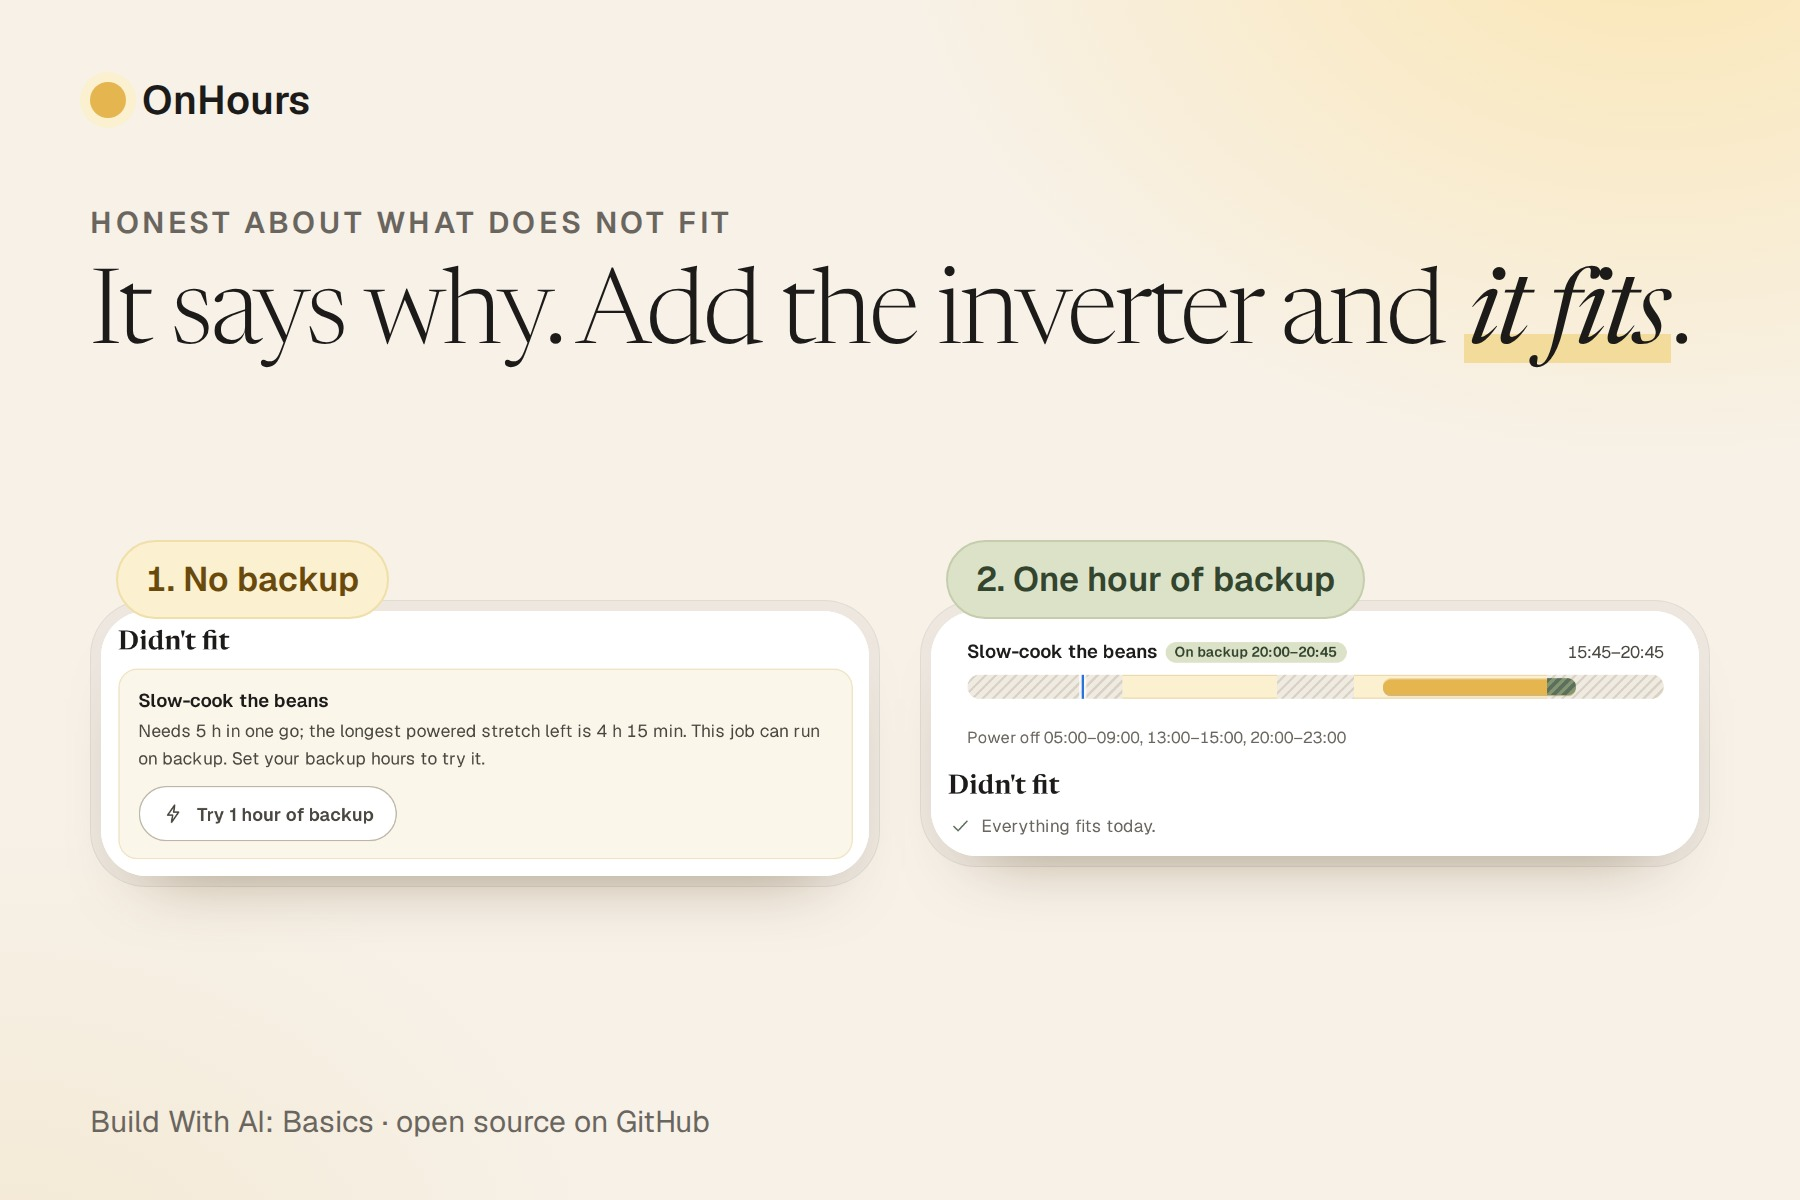
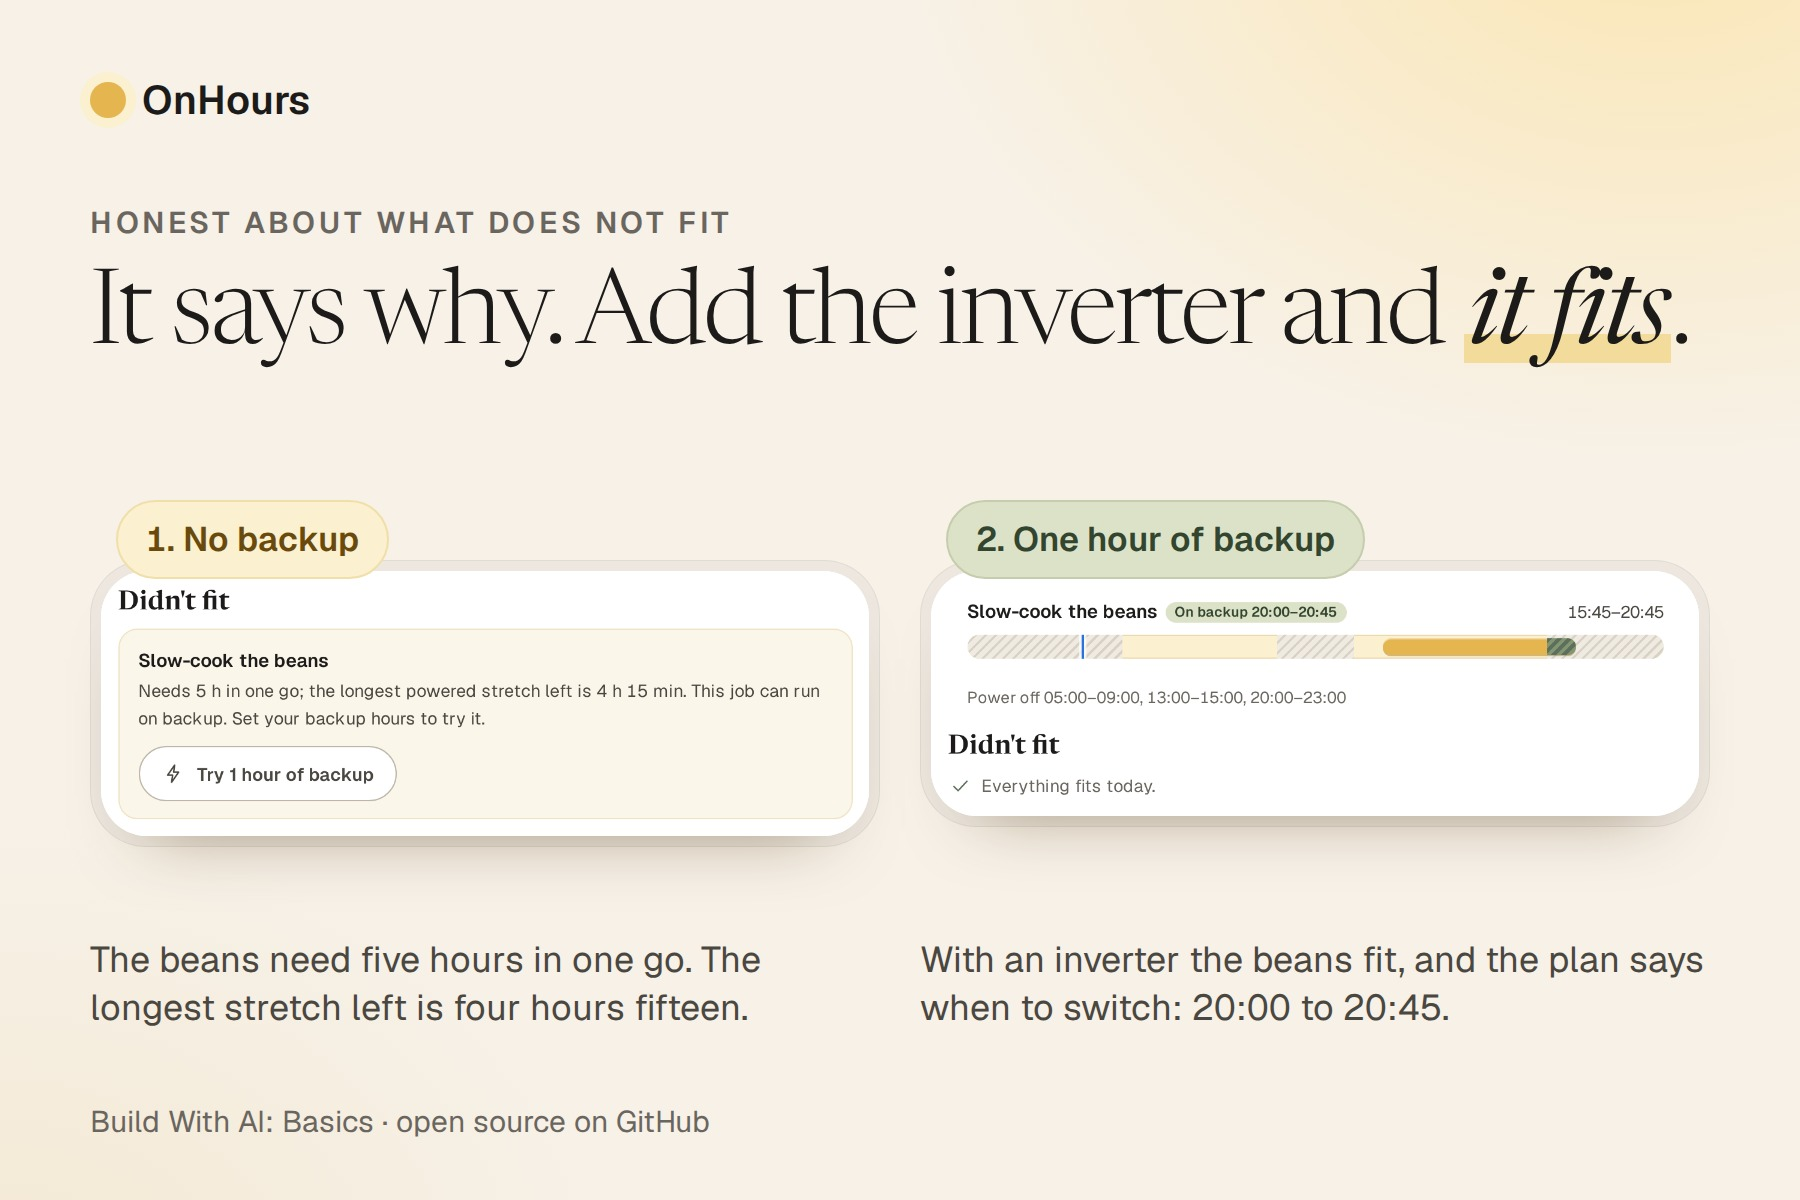
Shorten the film's lead-in, put captions beside the phone, enlarge the laptop view and retake the calendar line

Changed region(s): [[0.0311, 0.4008, 0.9644, 0.8633], [0.4978, 0.7708, 0.9333, 0.8633]]

diff --git a/tools/video/scenes/chat.html b/tools/video/scenes/chat.html
@@ -3,7 +3,7 @@
 <link rel="stylesheet" href="/base.css">
 <style>
   html, body { width: 390px; height: 844px; overflow: hidden; background: #F4EEE3; }
-  #chat { position: absolute; inset: 0; transform-origin: 38% 30%; animation: lens 3.2s var(--ease) 6.4s both; }
+  #chat { position: absolute; inset: 0; transform-origin: 38% 30%; animation: lens 3.2s var(--ease) 5.6s both; }
   header { position: absolute; top: 0; left: 0; right: 0; height: 74px; padding: 14px 16px 0; display: flex; align-items: center; gap: 12px; background: #fff; border-bottom: 1px solid var(--hair); z-index: 3; }
   .back { width: 22px; height: 22px; fill: none; stroke: var(--stone); stroke-width: 1.6; stroke-linecap: round; stroke-linejoin: round; }
   .av { width: 40px; height: 40px; border-radius: 50%; background: var(--band); display: grid; place-items: center; font-weight: 600; font-size: 14px; color: #6A4A0C; }
@@ -15,8 +15,8 @@
   .msg.photo { padding: 6px 6px 7px; width: 78%; }
   .msg.photo img { display: block; width: 100%; border-radius: 14px 14px 14px 14px; }
   .msg.photo .fw { display: block; padding: 2px 6px 6px; font-size: 12px; color: var(--ash); font-style: italic; }
-  .a { animation-delay: .5s; } .b { animation-delay: 1.5s; } .c { animation-delay: 3.7s; } .d { animation-delay: 4.9s; } .e { animation-delay: 6.1s; }
-  .typing { opacity: 0; width: 64px; padding: 10px 14px; display: flex; gap: 5px; animation: typing 1.2s linear 2.6s both; } .typing i { width: 7px; height: 7px; border-radius: 50%; background: #B7AF9F; animation: dot 1s infinite; } .typing i:nth-child(2) { animation-delay: .15s } .typing i:nth-child(3) { animation-delay: .3s }
+  .a { animation-delay: .05s; } .b { animation-delay: .7s; } .c { animation-delay: 2.9s; } .d { animation-delay: 4.1s; } .e { animation-delay: 5.3s; }
+  .typing { opacity: 0; width: 64px; padding: 10px 14px; display: flex; gap: 5px; animation: typing 1.2s linear 1.8s both; } .typing i { width: 7px; height: 7px; border-radius: 50%; background: #B7AF9F; animation: dot 1s infinite; } .typing i:nth-child(2) { animation-delay: .15s } .typing i:nth-child(3) { animation-delay: .3s }
   .bar { position: absolute; left: 0; right: 0; bottom: 0; height: 76px; padding: 12px 14px 22px; display: flex; gap: 10px; background: #fff; border-top: 1px solid var(--hair); z-index: 3; }
   .bar div { flex: 1; border: 1px solid var(--hair); border-radius: 999px; padding: 0 16px; line-height: 40px; color: var(--ash); font-size: 15px; background: #FCFAF5; }
   .bar i { width: 42px; height: 42px; border-radius: 50%; background: var(--band); }

diff --git a/tools/video/scenes/audience.html b/tools/video/scenes/audience.html
@@ -20,10 +20,10 @@
   .track i { position: absolute; top: 0; bottom: 0; background: repeating-linear-gradient(135deg, var(--off) 0 4px, var(--stripe) 4px 6px); }
   .track b { position: absolute; top: 3px; bottom: 3px; border-radius: 999px; background: var(--job); }
   .line { margin-top: 20px; font-size: 17px; color: var(--stone); }
-  .why { margin-top: 20px; display: flex; gap: 14px; align-items: center; background: #fff; border: 1px solid var(--hair); border-radius: 20px; padding: 14px 20px; font-size: 18px; line-height: 1.35; color: var(--stone); box-shadow: 0 16px 28px -24px rgba(80,52,8,.4); animation: rise .9s var(--ease) 10.1s both; }
-  .why b { color: var(--ink); } .why small { display: block; color: var(--ash); font-size: 14px; margin-top: 2px; }
+  .why { margin-top: 20px; display: flex; gap: 14px; align-items: center; background: #fff; border: 1px solid var(--hair); border-radius: 20px; padding: 12px 20px; font-size: 21px; line-height: 1.35; color: var(--stone); box-shadow: 0 16px 28px -24px rgba(80,52,8,.4); animation: rise .9s var(--ease) 10.1s both; }
+  .why b { color: var(--ink); } .why small { display: block; color: var(--ash); font-size: 16px; margin-top: 2px; }
   .why .dot { flex: none; width: 12px; height: 12px; border-radius: 50%; background: var(--job); box-shadow: 0 0 0 5px var(--tint); }
-  .made { margin-top: 12px; font-size: 14.5px; color: var(--ash); animation: rise .9s var(--ease) 11.0s both; }
+  .made { margin-top: 10px; font-size: 17px; color: var(--ash); animation: rise .9s var(--ease) 11.0s both; }
   @keyframes dim { from { opacity: 0; transform: translateY(14px); } to { opacity: .42; transform: none; } }
   @keyframes lit { from { opacity: .42; transform: none; } to { opacity: 1; transform: translateY(-8px); } }
   @keyframes rise { from { opacity: 0; transform: translateY(14px); } to { opacity: 1; transform: none; } }

diff --git a/tools/gallery/gallery.html b/tools/gallery/gallery.html
@@ -48,10 +48,12 @@
 <!-- 4: a miss, with its reason, and the fix -->
 <div data-n="4">
   <div class="copy" style="top:200px;width:1600px"><div class="eyebrow">Honest about what does not fit</div><h2 style="font-size:104px">It says why. Add the inverter and <em>it fits</em>.</h2></div>
-  <div class="shell" style="left:90px;top:600px;width:790px"><div class="inner" style="height:auto"><img src="/work/gallery-src/misses-before.png" style="height:auto"></div></div>
-  <div class="shell" style="left:920px;top:600px;width:790px"><div class="inner" style="height:auto"><img src="/work/gallery-src/beans-after.png" style="height:auto"></div></div>
-  <div class="tag" style="left:116px;top:540px;background:#FBF0CF;border-color:#F0DFA9;color:#6A4A0C">1. No backup</div>
-  <div class="tag" style="left:946px;top:540px">2. One hour of backup</div>
+  <div class="shell" style="left:90px;top:560px;width:790px"><div class="inner" style="height:auto"><img src="/work/gallery-src/misses-before.png" style="height:auto"></div></div>
+  <div class="shell" style="left:920px;top:560px;width:790px"><div class="inner" style="height:auto"><img src="/work/gallery-src/beans-after.png" style="height:auto"></div></div>
+  <div class="tag" style="left:116px;top:500px;background:#FBF0CF;border-color:#F0DFA9;color:#6A4A0C">1. No backup</div>
+  <div class="tag" style="left:946px;top:500px">2. One hour of backup</div>
+  <p class="sub" style="position:absolute;left:90px;top:900px;width:790px;font-size:36px">The beans need five hours in one go. The longest stretch left is four hours fifteen.</p>
+  <p class="sub" style="position:absolute;left:920px;top:900px;width:790px;font-size:36px">With an inverter the beans fit, and the plan says when to switch: 20:00 to 20:45.</p>
 </div>
 
 <!-- 5: the notice changed -->

diff --git a/tools/video/scenes/stage.html b/tools/video/scenes/stage.html
@@ -9,7 +9,7 @@
   .status { position: absolute; left: 34px; right: 34px; top: 20px; display: flex; justify-content: space-between; align-items: center; font-weight: 600; font-size: 17px; color: var(--stone); }
   .status .r { display: flex; gap: 10px; align-items: center; }
   .batt { width: 24px; height: 12px; border-radius: 4px; border: 1.6px solid var(--stone); position: relative; } .batt::after { content: ""; position: absolute; left: 2px; top: 2px; bottom: 2px; width: 14px; border-radius: 2px; background: var(--stone); }
-  .panel { position: absolute; left: 830px; top: 0; right: 110px; height: 1080px; display: flex; flex-direction: column; justify-content: center; }
+  .panel { position: absolute; left: 830px; top: 0; right: 110px; height: 930px; display: flex; flex-direction: column; justify-content: center; }
   .eyebrow { font-size: 17px; font-weight: 600; letter-spacing: .14em; text-transform: uppercase; color: var(--ash); }
   h1 { margin: 16px 0 0; font: 300 104px/1.0 "Newsreader", Georgia, serif; letter-spacing: -.03em; text-wrap: balance; }
   h1 em { font-style: italic; font-weight: 400; background: linear-gradient(transparent 64%, var(--band) 64% 92%, transparent 92%); padding: 0 .05em; }

diff --git a/tools/video/narrate.py b/tools/video/narrate.py
@@ -14,7 +14,7 @@ WORK = os.path.join(ROOT, "submission", "work")
 TAKES = os.path.join(WORK, "takes")
 LINES = json.load(open(os.path.join(os.path.dirname(__file__), "narration.json")))
 GAP_LINE, GAP_SCENE = 0.5, 1.3     # seconds of quiet between lines, and between scenes
-LEAD, TAIL = 1.5, 4.5              # quiet before the first line (the picture opens first) and after the last
+LEAD, TAIL = 0.7, 4.5              # quiet before the first line (the picture opens first) and after the last
 VOICE, STYLE, MODEL = "en-US-natalie", "Narration", "GEN2"
 
 
